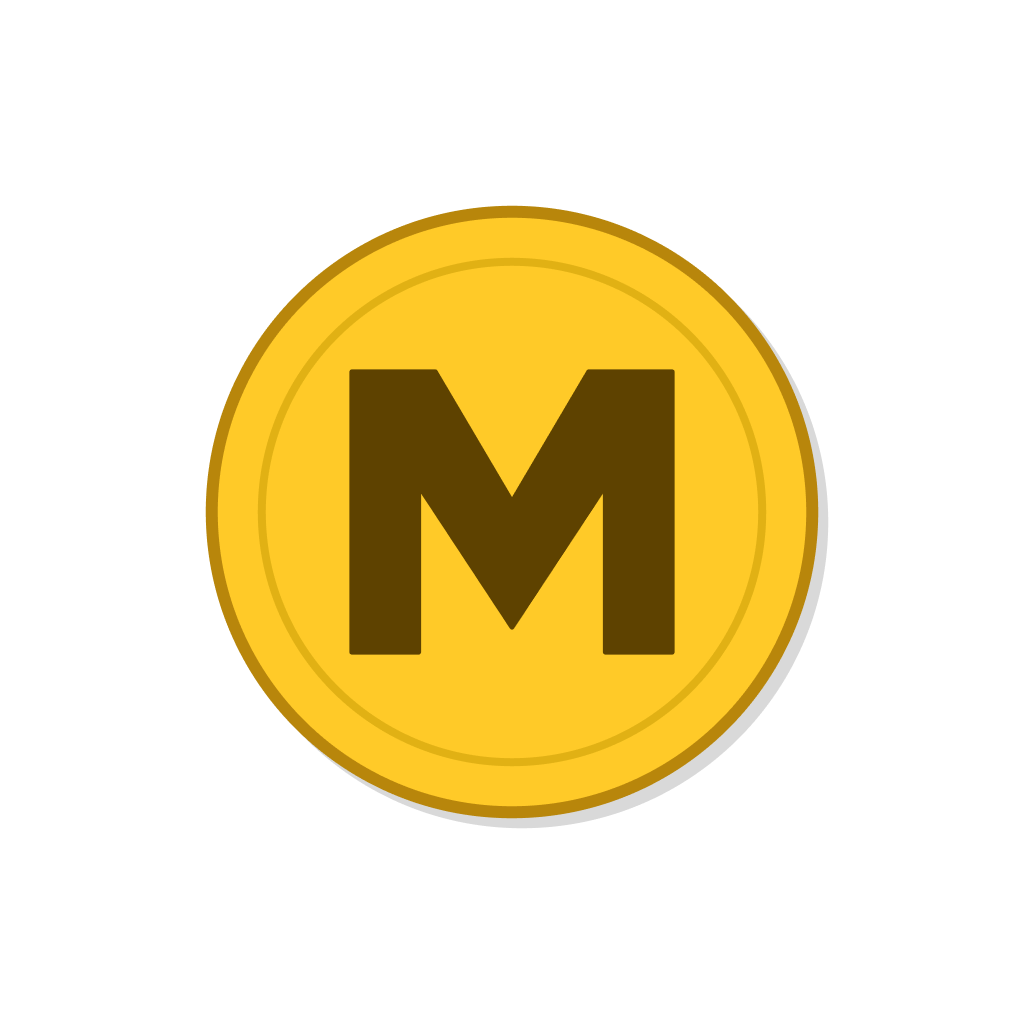
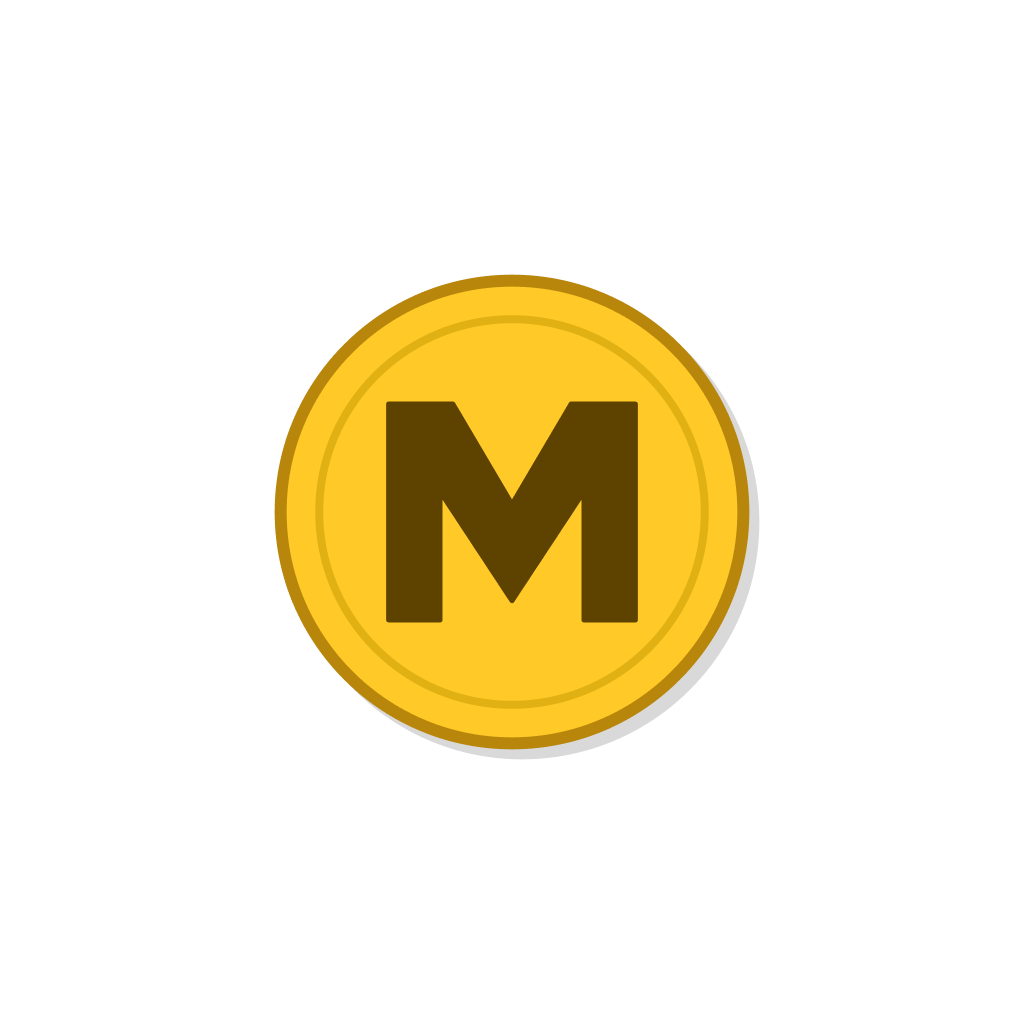
add new screenshots in README

Changed region(s): [[0.1875, 0.1875, 0.8125, 0.8125]]

diff --git a/README.md b/README.md
@@ -2,6 +2,23 @@
 
 A personal finance app built with Expo. Track your income, expenses, transfers, and account balances — all data stored locally on your device. Cloud backup is opt-in and only stores data in your own Google Drive.
 
+|     Dashboard     |     Accounts      |      Budgets      |
+| :---------------: | :---------------: | :---------------: |
+| ![Dashboard][dashboard] | ![Accounts][accounts] | ![Budgets][budgets] |
+| **Transactions (grouped)** | **Add transaction** | **Settings** |
+| ![Transactions grouped][transactions] | ![Add transaction][addtx] | ![Settings][settings] |
+| **Cross-currency transfer** | **Theme picker** | |
+| ![Cross-currency transfer][transfer] | ![Theme picker][theme] | |
+
+[dashboard]: docs/screenshots/01-dashboard.png
+[accounts]: docs/screenshots/02-accounts.png
+[budgets]: docs/screenshots/05-budgets.png
+[transactions]: docs/screenshots/03-transactions-grouped.png
+[addtx]: docs/screenshots/04-add-transaction.png
+[settings]: docs/screenshots/07-settings.png
+[transfer]: docs/screenshots/06-transfer-cross-currency.png
+[theme]: docs/screenshots/08-theme-picker.png
+
 > **Platform support:** Android is fully supported. iOS is **not yet supported** — if you'd like to help test or contribute to iOS support, check the [issues](https://github.com/itsmariodias/its-a-my-money/issues) or open a new one!
 
 > Vibe coded by [@itsmariodias](https://github.com/itsmariodias) with [Claude Code](https://claude.ai/code) (Anthropic). Every screen, component, and feature in this app was built through a conversation with Claude — no manual coding required.